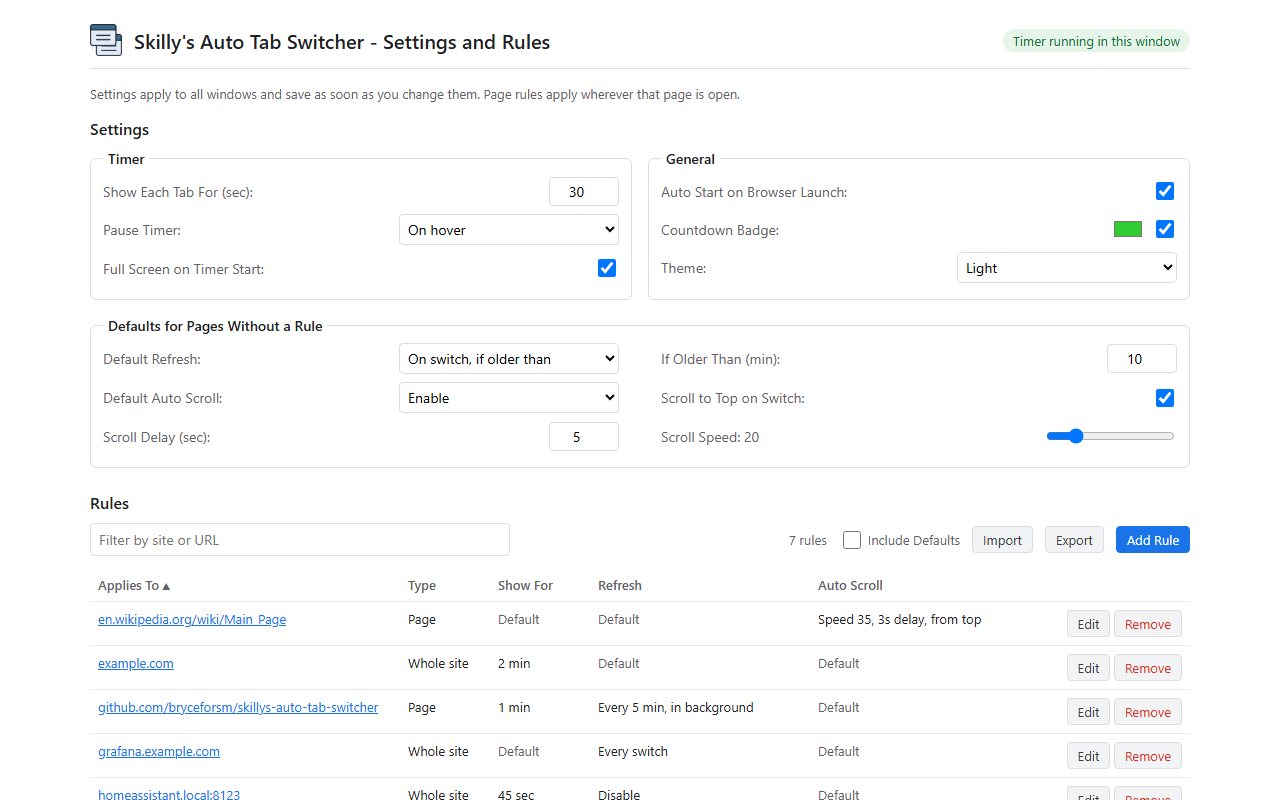
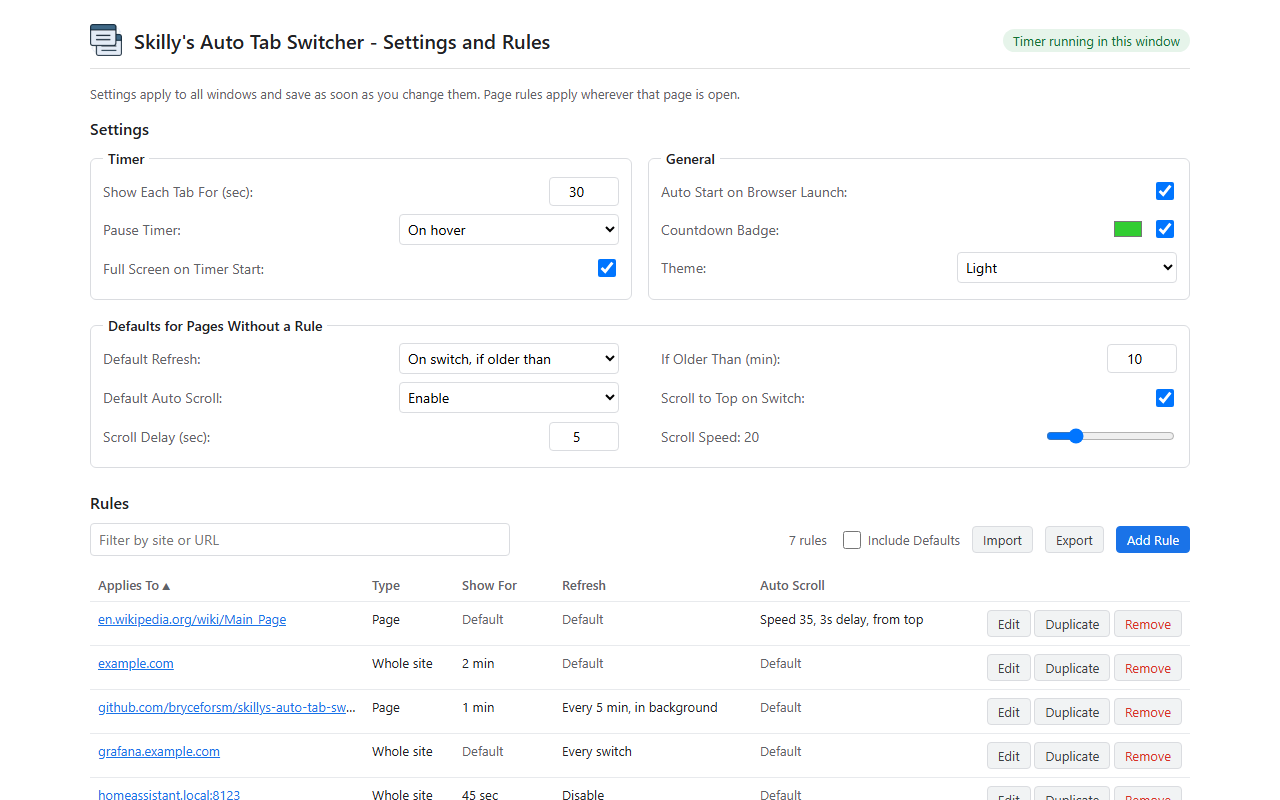
Enhance rules management by adding duplicate functionality and improving UI elements; update related documentation for clarity

diff --git a/TabSwitcherExtension/rules.js b/TabSwitcherExtension/rules.js
@@ -6,6 +6,7 @@ const GENERAL_FIELDS = ['interval', 'pauseMode', 'autoStart', 'fullscreenOnStart
 let settings = normalizeSettings({});
 let windowId = null;
 let editingKey = null;
+let duplicateOf = null; // key of the rule being copied, so saving it unchanged is caught
 let sortColumn = 'target';
 let sortDirection = 1;
 
@@ -162,6 +163,7 @@ function targetCell(key) {
     const td = cell('', 'target');
     const url = ruleUrl(key, settings.pageRules[key]);
     const text = displayTarget(key, settings.pageRules[key]);
+    td.title = text;
     // Only link URLs the extension itself would produce, never arbitrary schemes from storage.
     if (!ruleKeysForUrl(url)) {
         td.textContent = text;
@@ -171,7 +173,7 @@ function targetCell(key) {
     a.href = url;
     a.target = '_blank';
     a.rel = 'noopener noreferrer';
-    a.title = 'Open in a new tab';
+    a.title = `${url}\nClick to open in a new tab`;
     a.textContent = text;
     // Extension pages cannot open file:// links directly, but chrome.tabs.create can.
     a.addEventListener('click', (event) => {
@@ -244,6 +246,8 @@ function render() {
         actions.append(
             button('Edit', '', () => openEditor(key)),
             ' ',
+            button('Duplicate', '', () => openEditor(key, true)),
+            ' ',
             button('Remove', 'danger', () => removeRule(key))
         );
         tr.append(
@@ -261,11 +265,13 @@ function render() {
 
 // ---------- Editing ----------
 
-function openEditor(key) {
+// With duplicate, the rule's settings prefill a new rule instead of editing it.
+function openEditor(key, duplicate = false) {
     const rule = key ? settings.pageRules[key] : {};
     if (!rule) return;
-    editingKey = key;
-    $('editTitle').textContent = key ? 'Edit Rule' : 'Add Rule';
+    editingKey = duplicate ? null : key;
+    duplicateOf = duplicate ? key : null;
+    $('editTitle').textContent = duplicate ? 'Duplicate Rule' : key ? 'Edit Rule' : 'Add Rule';
     $('editType').value = key && key.startsWith('page:') ? 'page' : 'host';
     $('editUrl').value = key ? displayTarget(key, rule) : '';
     validateUrl();
@@ -285,6 +291,7 @@ function openEditor(key) {
 
     updateEditorVisibility();
     $('editor').showModal();
+    if (duplicate) $('editUrl').select();
 }
 
 // Returns { key } for a valid entry, or { error } explaining what is wrong.
@@ -322,6 +329,10 @@ function validateUrl() {
     const isSite = $('editType').value === 'host';
     $('editUrlLabel').textContent = isSite ? 'Site:' : 'Page URL:';
     const result = parseTarget($('editUrl').value, isSite);
+    if (result.key && result.key === duplicateOf) {
+        result.error = 'Change the site or page URL. This is the rule being copied.';
+        delete result.key;
+    }
     const { key, error, warning, scheme } = result;
     $('editUrl').setCustomValidity(error || '');
     // An empty box on a new rule is not a mistake yet, so show the hint without the error color.

diff --git a/TabSwitcherExtension/rules.html b/TabSwitcherExtension/rules.html
@@ -164,12 +164,14 @@
         col.target { width: auto; }
         col.type { width: 90px; }
         col.display { width: 100px; }
-        col.refresh { width: 20%; }
-        col.scroll { width: 20%; }
-        col.actions { width: 160px; }
+        col.refresh { width: 18%; }
+        col.scroll { width: 18%; }
+        col.actions { width: 240px; }
         td.target {
-            /* Long URLs wrap instead of forcing a horizontal scrollbar. */
-            overflow-wrap: anywhere;
+            /* Long URLs are cut off with an ellipsis. Hovering shows the full address. */
+            white-space: nowrap;
+            overflow: hidden;
+            text-overflow: ellipsis;
         }
         td.target a {
             color: #1a73e8;

diff --git a/README.md b/README.md
@@ -50,7 +50,7 @@ This extension automatically switches between your open tabs at an interval you 
             - **On switch, if older than N min:** reload when shown, but only if the page was last loaded more than N minutes ago.
             - **Periodically, in background:** reload hidden tabs every N minutes so they are ready when shown, and on switch if the page is older than N minutes.
         - **Default Auto Scroll** applies to pages without their own scroll rule. Set it to **Enable** to show **Scroll to Top on Switch**, **Scroll Delay** (seconds) and **Scroll Speed** (1-100).
-    - **Rules** lists every rule, with a filter box and buttons to edit or remove each one. Rules are listed A to Z, and clicking a column heading sorts by that column (click again to reverse). Click a rule's site or URL to open it in a new tab. Editing also lets you change the site or page URL a rule applies to, and **Add Rule** creates a new site or page rule without visiting the page. **Export** saves every rule to a `.json` file, and **Import** adds the rules from such a file (rules for the same site or page are replaced, others are kept). Tick **Include Defaults** to also export and import **Show Each Tab For**, **Default Refresh** and **Default Auto Scroll**.
+    - **Rules** lists every rule, with a filter box and buttons to edit or remove each one. Rules are listed A to Z, and clicking a column heading sorts by that column (click again to reverse). Click a rule's site or URL to open it in a new tab. Editing also lets you change the site or page URL a rule applies to, and **Add Rule** creates a new site or page rule without visiting the page. **Duplicate** opens a new rule with the same settings, ready for a different site or page. **Export** saves every rule to a `.json` file, and **Import** adds the rules from such a file (rules for the same site or page are replaced, others are kept). Tick **Include Defaults** to also export and import **Show Each Tab For**, **Default Refresh** and **Default Auto Scroll**.
     - **Reset to Defaults** asks for confirmation and then restores every setting and removes all rules.
 
 ## Installation (From Source)

diff --git a/Misc/STORE_LISTING.md b/Misc/STORE_LISTING.md
@@ -28,7 +28,7 @@ FEATURES
 - Auto-start: begin rotating automatically when the browser launches or a new window opens. Great for kiosks and unattended screens.
 - Full screen on start: go full screen when the timer starts and restore the window when it stops.
 - Countdown badge: see the seconds until the next switch on the toolbar icon, in the color of your choice, or hide it.
-- Settings and rules page: set defaults, auto start, full screen, badge and theme in one place, then view, filter, add, edit and remove every saved rule, import and export them as a file to back up or copy to another computer, and reset everything to defaults in one click.
+- Settings and rules page: set defaults, auto start, full screen, badge and theme in one place, then view, filter, add, edit, duplicate and remove every saved rule, import and export them as a file to back up or copy to another computer, and reset everything to defaults in one click.
 - Light, dark or system theme.
 
 GREAT FOR
